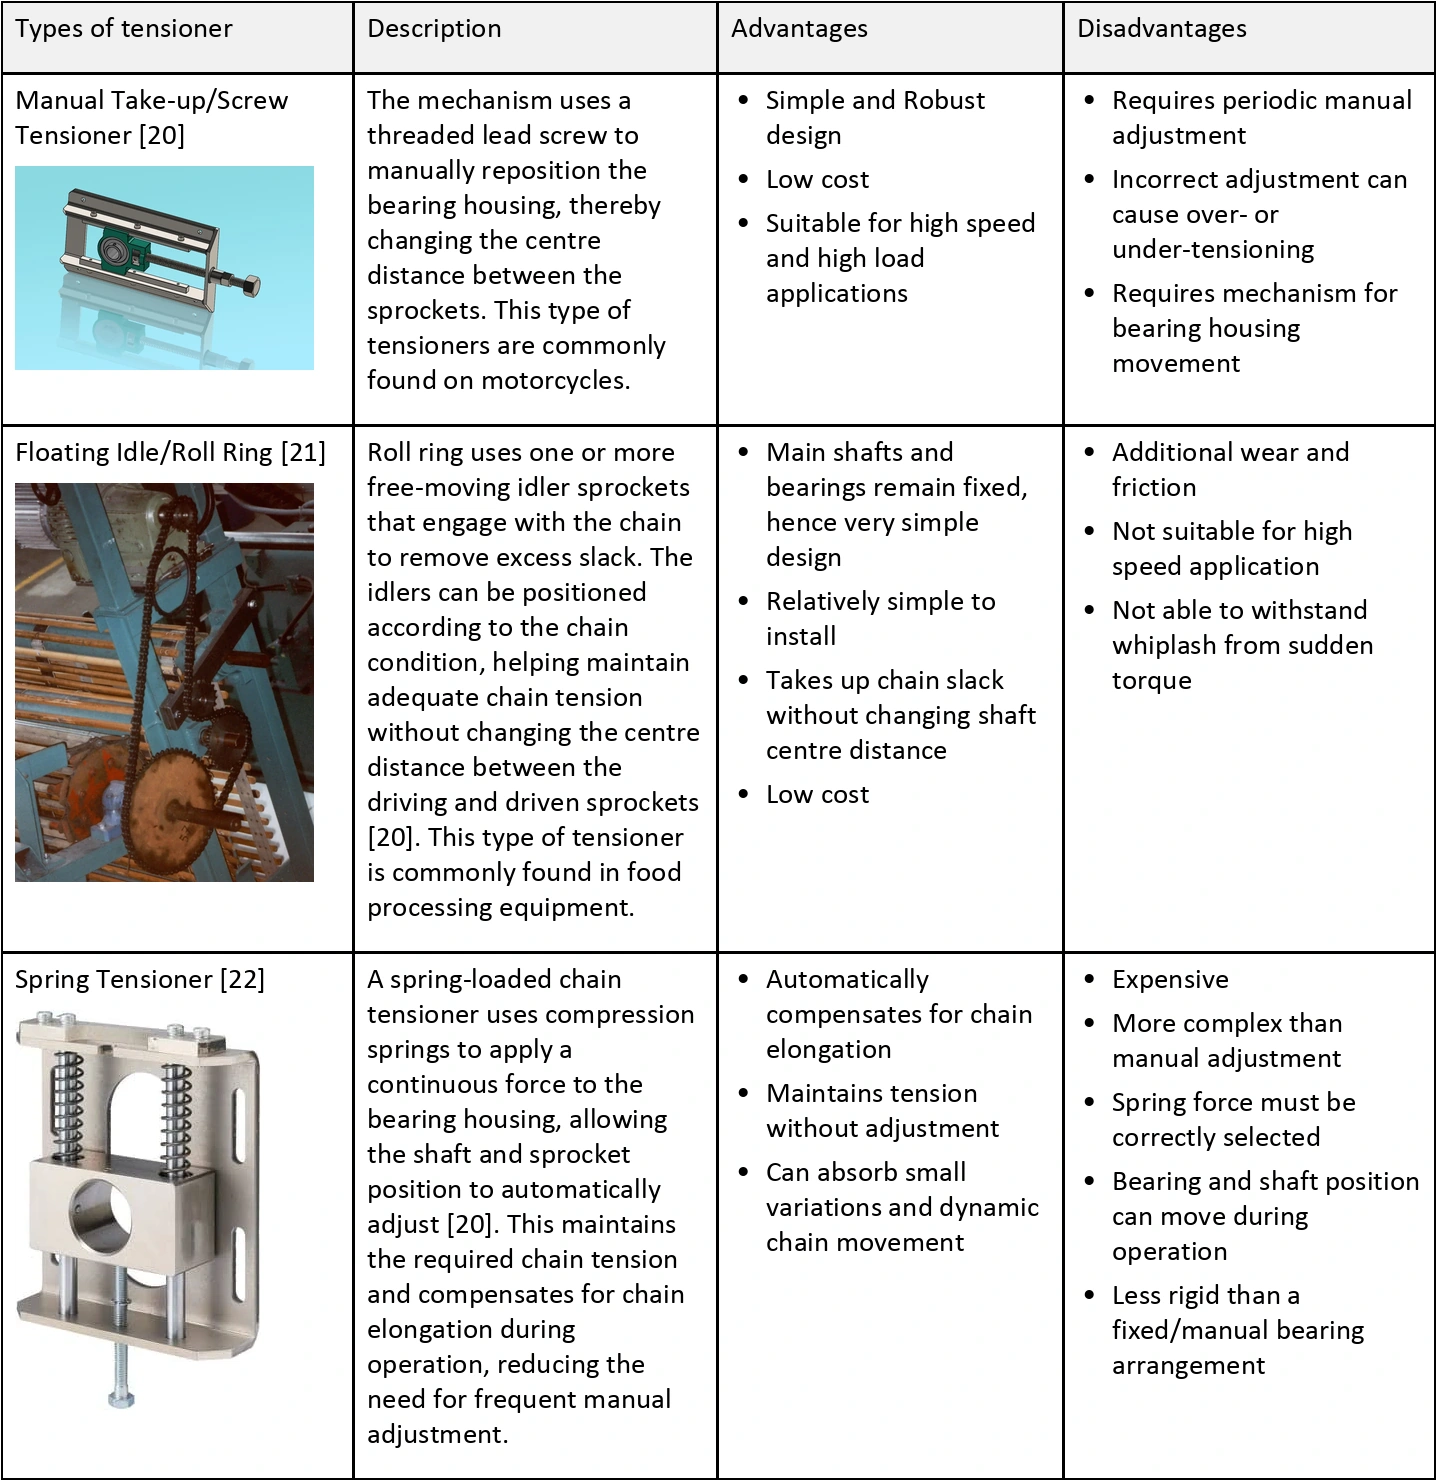
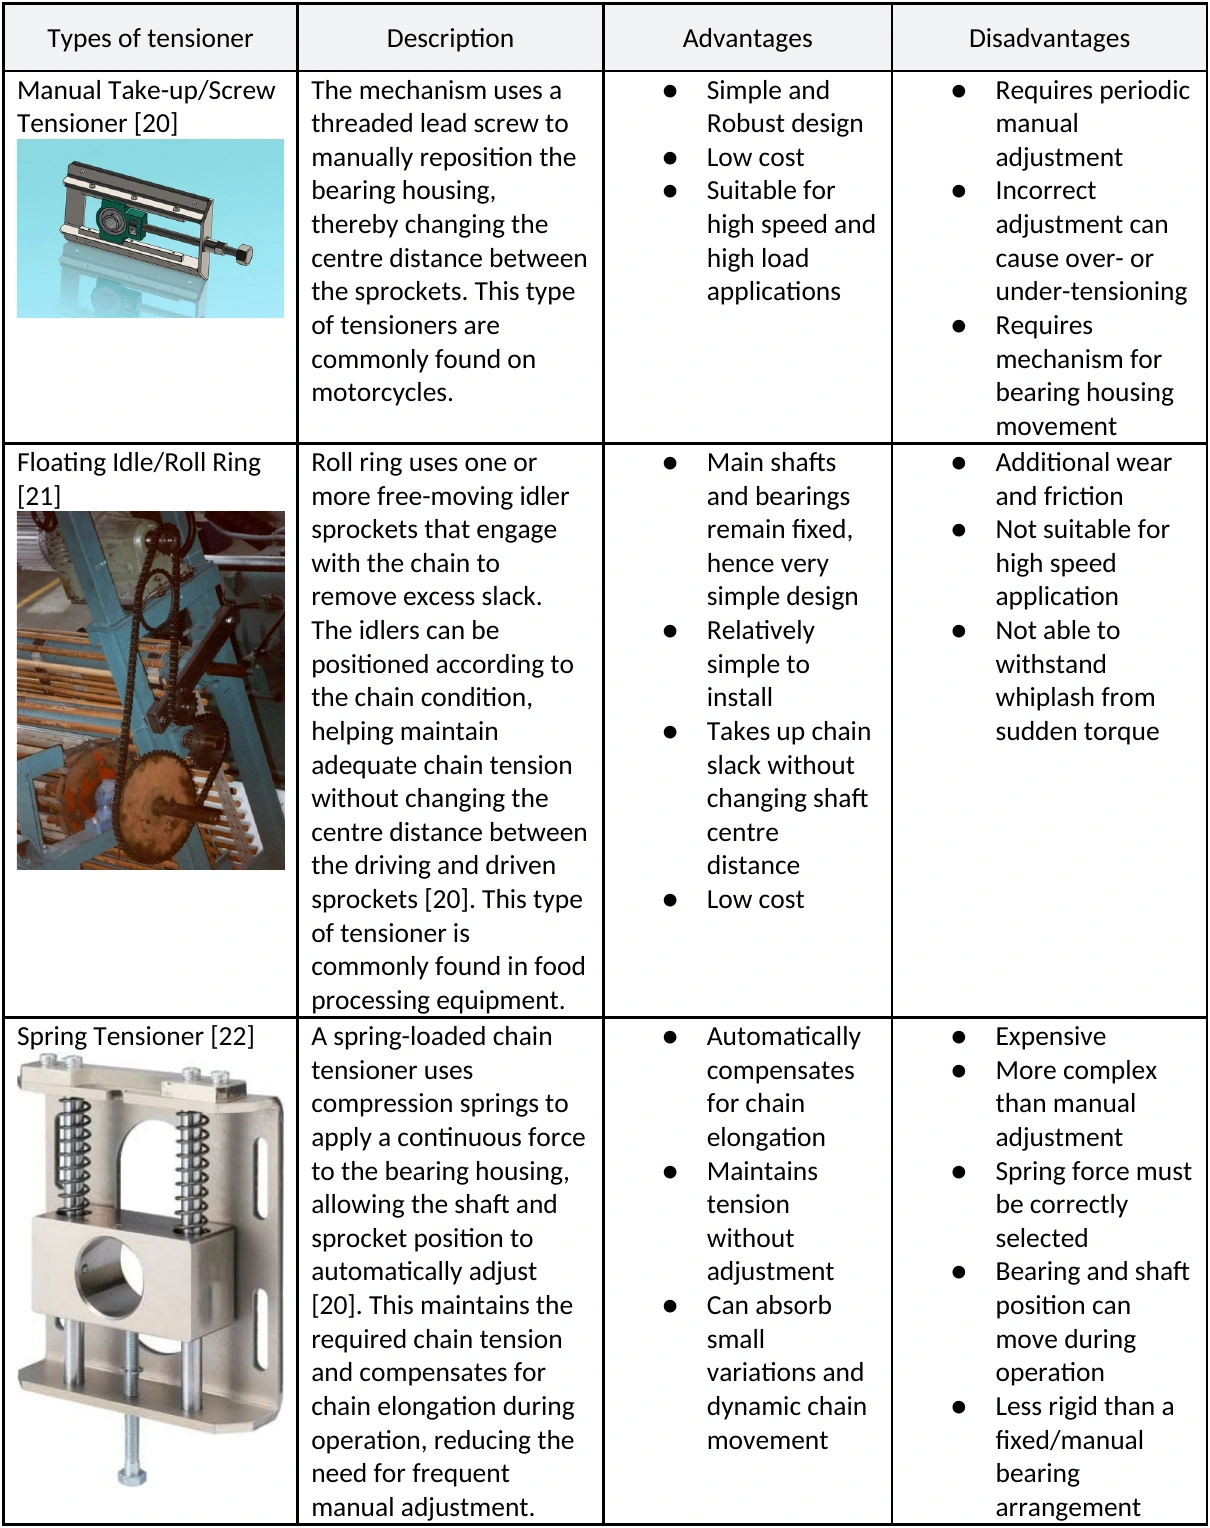
Match four report tables to original document formatting

Changed region(s): [[0.0, 0.0, 1.0, 1.0]]

diff --git a/index.html b/index.html
@@ -254,7 +254,7 @@ motor.</p><h4 id="power-transmission-system-design-considerations">3.6.1 Power
 Transmission System Design Considerations</h4><p>Based on our design criteria for the dynamometer, we further
 specified the power transmission’s design considerations in table 4.</p><p class="caption">Table 4: Power Transmission System Design Considerations</p><figure class="report-table-image"><img src="table-images/table-04.webp" alt="Table 4 from the final report" loading="lazy"></figure><h4 id="types-of-power-transmission-systems">3.6.2 Types of Power
 Transmission Systems</h4><p>We considered 3 types of power transmission systems, as seen in table
-5.</p><p class="caption">Table 5: Comparison of Power Transmission Types</p><figure class="report-table-image"><img src="table-images/table-05.webp?v=3" alt="Table 5 from the final report" loading="lazy"></figure><p>A weighted decision matrix was therefore used to evaluate the
+5.</p><p class="caption">Table 5: Comparison of Power Transmission Types</p><figure class="report-table-image"><img src="table-images/table-05.webp?v=4" alt="Table 5 from the final report" loading="lazy"></figure><p>A weighted decision matrix was therefore used to evaluate the
 concepts, as shown in Table 6.</p><p class="caption">Table 6: Weighted Decision Matrix of Power Transmission Systems</p><figure class="report-table-image"><img src="table-images/table-06.webp" alt="Table 6 from the final report" loading="lazy"></figure><p><em>Scores: 1 = Poor, 2 = Below Average, 3 = Moderate, 4 = Good, 5 =
 Excellent.</em></p><p>Based on the weighted decision matrix, the chain drive achieved the
 highest score. It was therefore selected as it offers reliable power
@@ -268,9 +268,9 @@ prevent chain derailment, excessive wear, and vibration during
 operation. Therefore, different tensioning concepts were evaluated to
 identify a suitable mechanism for the dynamometer.</p><h4 id="tensioner-design-considerations">3.7.1 Tensioner Design
 Considerations</h4><p>Based on our design criteria for the dynamometer, we further
-specified the frame’s design considerations in table 7.</p><p class="caption">Table 7: Tensioner Design Considerations</p><figure class="report-table-image"><img src="table-images/table-07.webp?v=3" alt="Table 7 from the final report" loading="lazy"></figure><h4 id="types-of-tensioner">3.7.2 Types of tensioner</h4><p>We considered 3 types of tensioning mechanisms, as seen in table
-8.</p><p class="caption">Table 8: Comparison of Tensioner Types</p><figure class="report-table-image"><img src="table-images/table-08.webp?v=3" alt="Table 8 from the final report" loading="lazy"></figure><p>A weighted decision matrix was therefore used to evaluate the
-concepts, as shown in Table 9.</p><p class="caption">Table 9: Weighted Decision Matrix of Tensioners</p><figure class="report-table-image"><img src="table-images/table-09.webp?v=3" alt="Table 9 from the final report" loading="lazy"></figure><p><em>Scores: 1 = Poor, 2 = Below Average, 3 = Moderate, 4 = Good, 5 =
+specified the frame’s design considerations in table 7.</p><p class="caption">Table 7: Tensioner Design Considerations</p><figure class="report-table-image"><img src="table-images/table-07.webp?v=4" alt="Table 7 from the final report" loading="lazy"></figure><h4 id="types-of-tensioner">3.7.2 Types of tensioner</h4><p>We considered 3 types of tensioning mechanisms, as seen in table
+8.</p><p class="caption">Table 8: Comparison of Tensioner Types</p><figure class="report-table-image"><img src="table-images/table-08.webp?v=4" alt="Table 8 from the final report" loading="lazy"></figure><p>A weighted decision matrix was therefore used to evaluate the
+concepts, as shown in Table 9.</p><p class="caption">Table 9: Weighted Decision Matrix of Tensioners</p><figure class="report-table-image"><img src="table-images/table-09.webp?v=4" alt="Table 9 from the final report" loading="lazy"></figure><p><em>Scores: 1 = Poor, 2 = Below Average, 3 = Moderate, 4 = Good, 5 =
 Excellent.</em></p><p>The manual take-up tensioner achieved the highest weighted score and
 was selected for its rigidity, load capacity, and simplicity under high
 torque and speed.</p><p>Although the spring tensioner automatically compensates for chain
